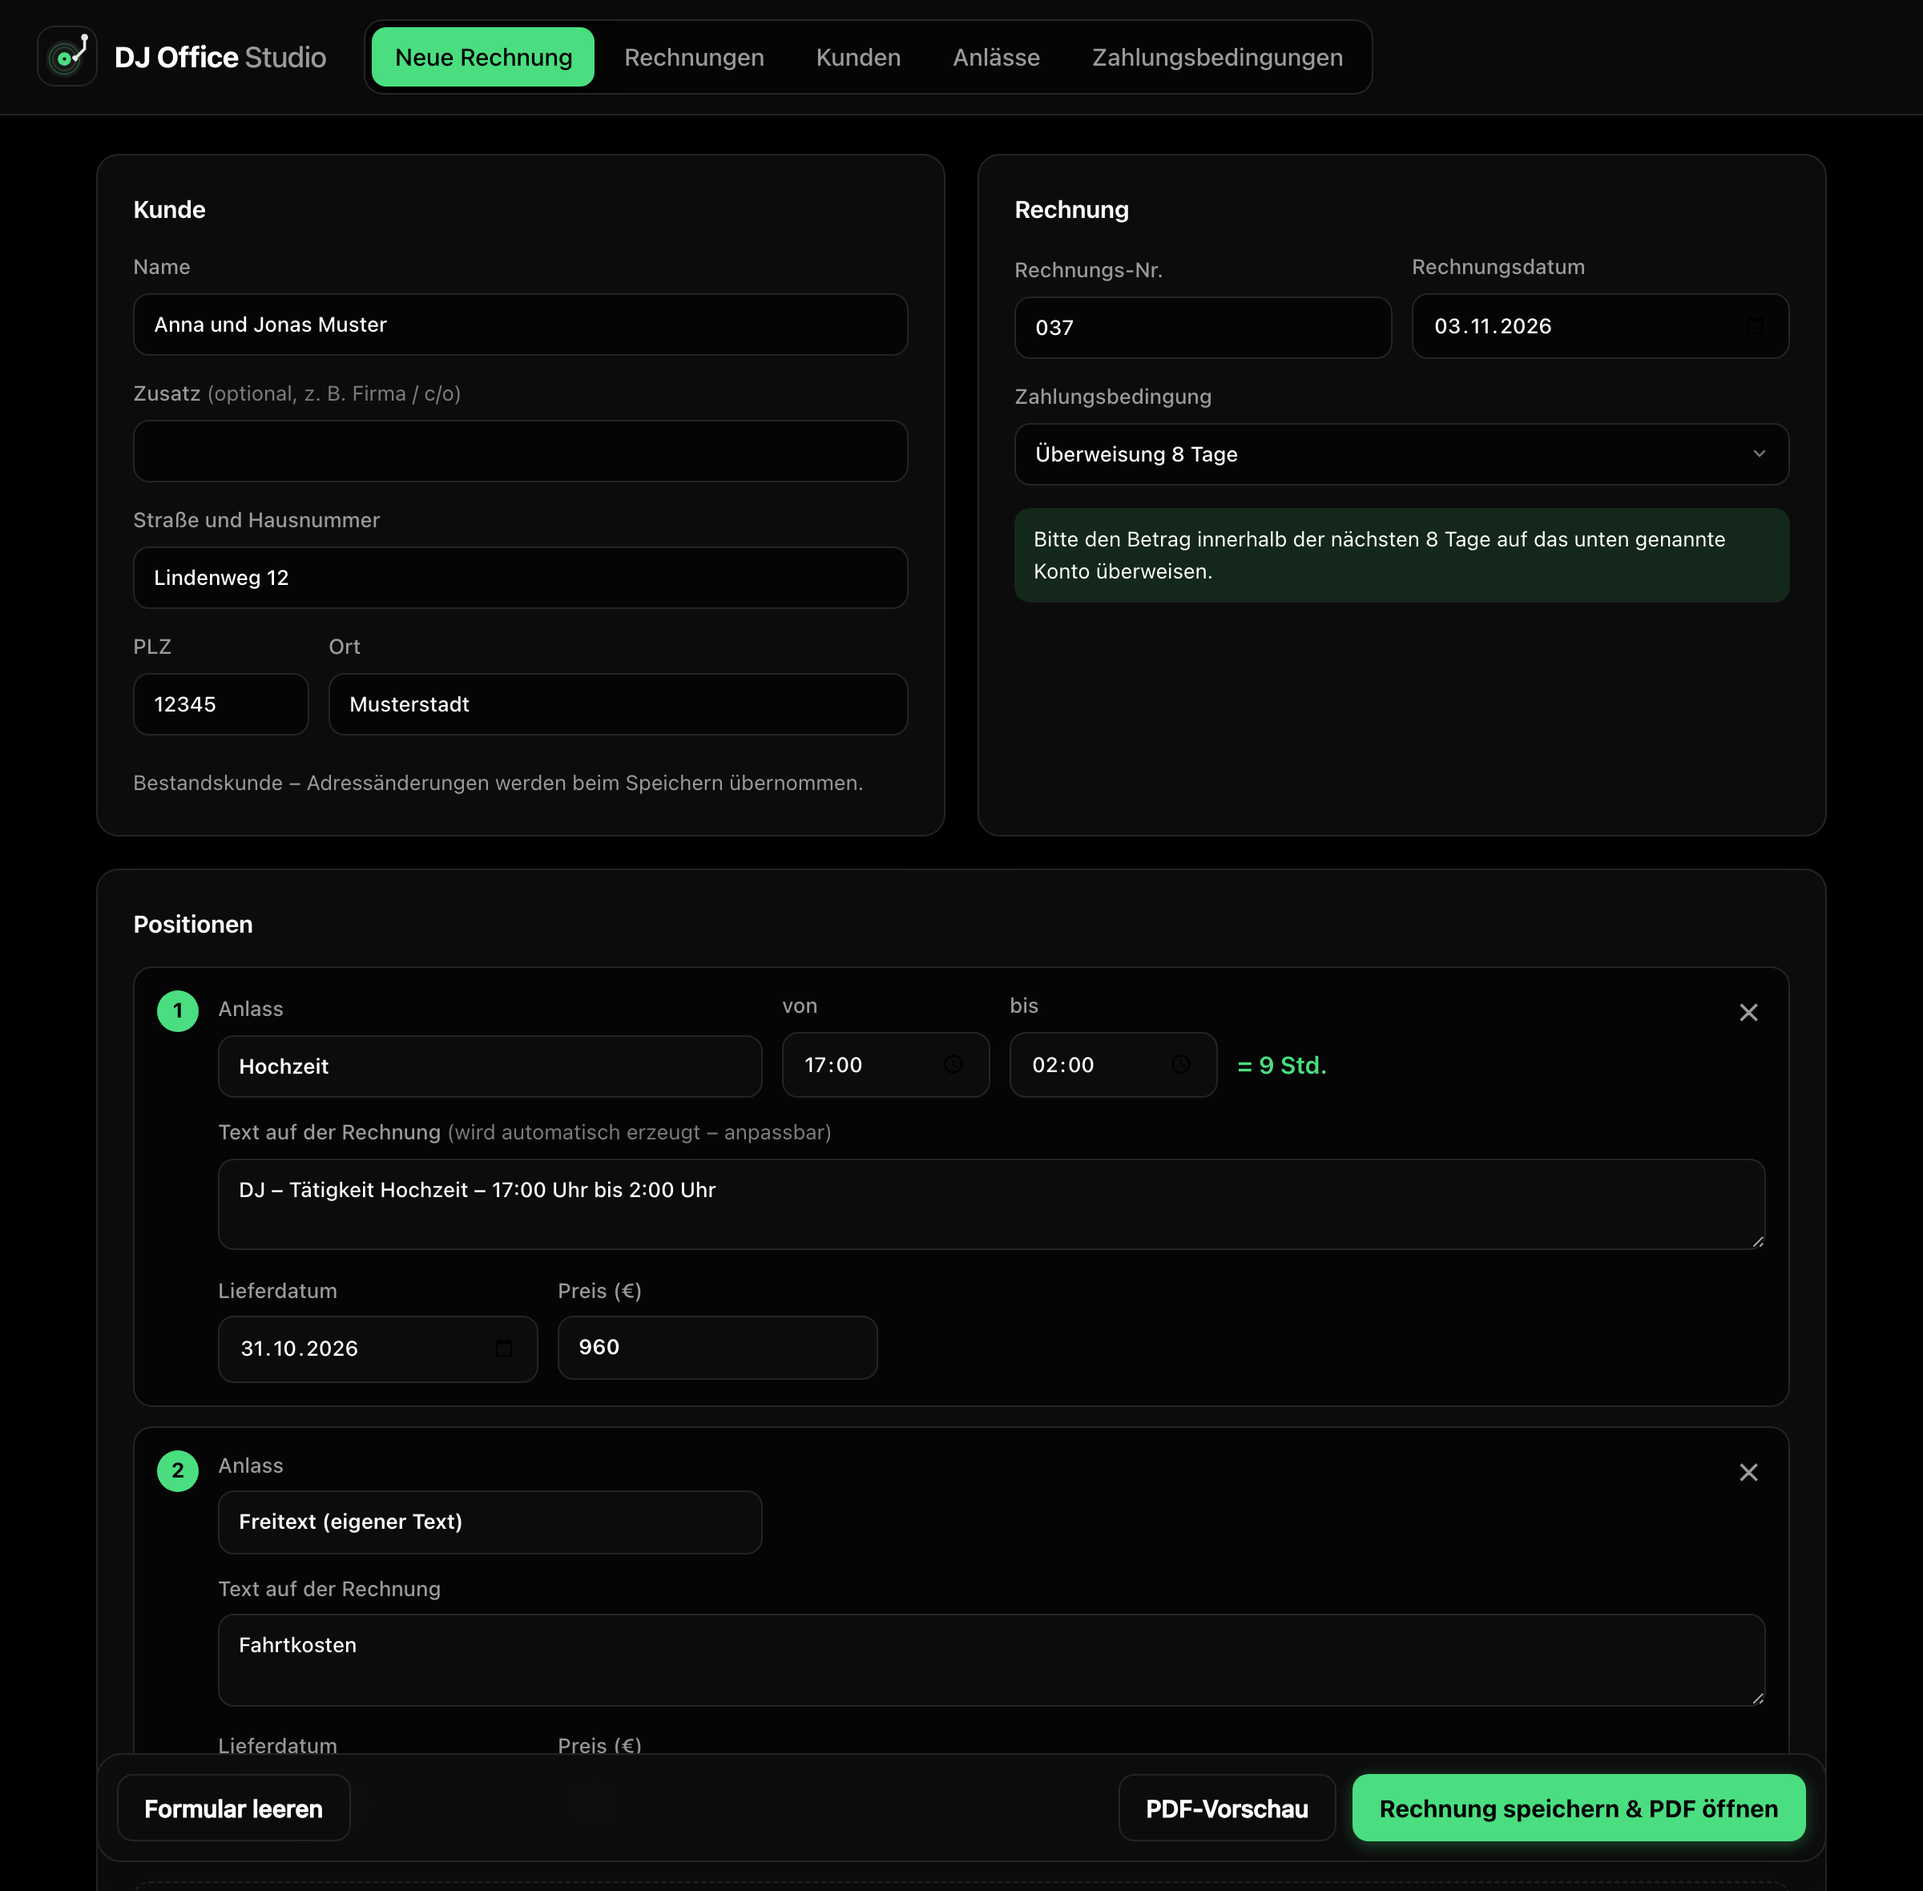
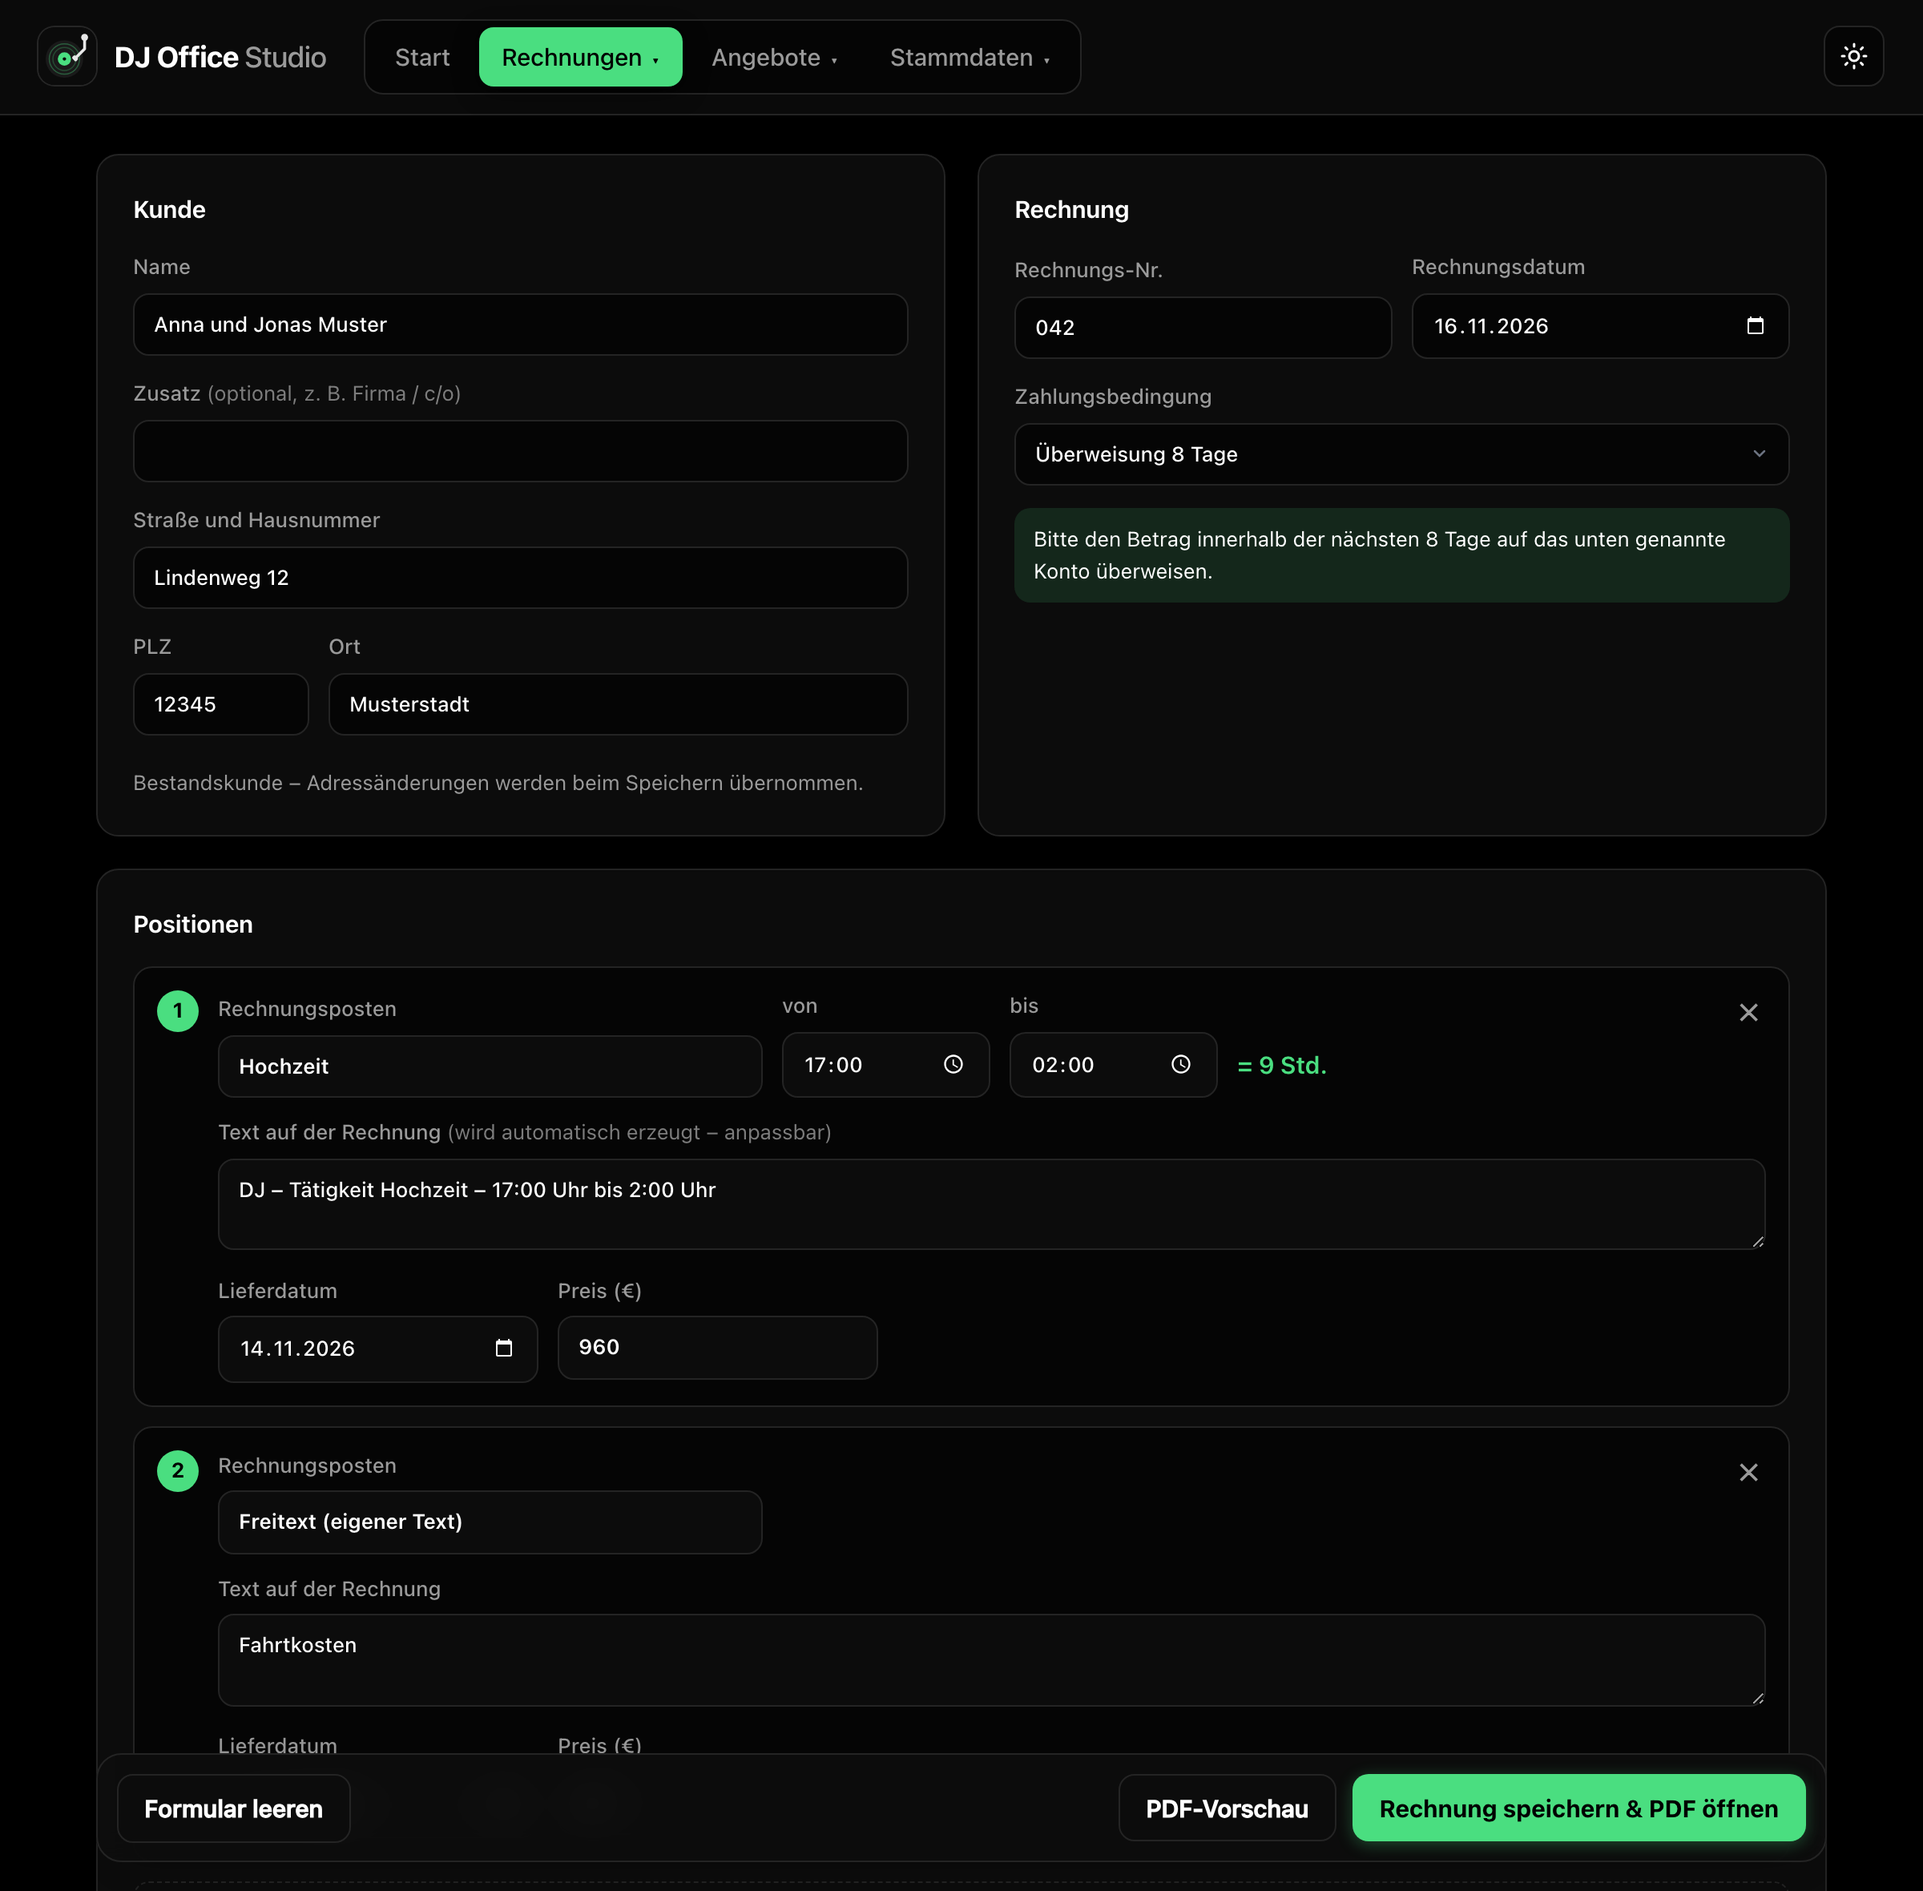
README: neue Screenshots und Bedienung inkl. Angebote; kurzer Rechnungslink in der Angebotsliste

diff --git a/rechnungen/app/static/app.js b/rechnungen/app/static/app.js
@@ -773,7 +773,7 @@ async function loadAngebote() {
 function gueltigBadge(a) {
   if (a.status === "angenommen") {
     const r = a.rechnung_id && state.rechnungen.find(x => x.id === a.rechnung_id);
-    return r ? `<a href="#" class="rlink" data-rechnung="${r.id}" title="Rechnung öffnen">→ ${esc(rechnungsName(r))}</a>`
+    return r ? `<a href="#" class="rlink nowrap" data-rechnung="${r.id}" title="${esc(rechnungsName(r))} öffnen">→ Rechnung ${esc(r.nummer)}</a>`
              : `<span class="frist gruen">angenommen</span>`;
   }
   if (a.status === "abgelehnt") return `<span class="frist neutral">abgelehnt</span>`;

diff --git a/rechnungen/app/static/style.css b/rechnungen/app/static/style.css
@@ -393,3 +393,4 @@ select.status-select.angenommen { border-color: var(--neon); }
 select.status-select.abgelehnt { color: var(--muted); }
 tr.angebot-zu td { opacity: .6; }
 tr.angebot-zu td.btns, tr.angebot-zu td.auswahl-spalte, tr.angebot-zu td:nth-child(7) { opacity: 1; }
+.nowrap { white-space: nowrap; }

diff --git a/README.md b/README.md
@@ -73,21 +73,25 @@ Ist `paperless_installiert` eingeschaltet, gibt es im Archiv bei markierten Rech
 Oben in der Kopfzeile gibt es auf jeder Seite das Menü: **Start**, **Rechnungen** (Neue Rechnung, Rechnungen), **Angebote** (Neues Angebot, Angebote) und **Stammdaten** (Kunden, Rechnungsposten, Zahlungsbedingungen).
 
 
-**Start:** Die Startseite öffnet sich beim Aufruf. Über die Kacheln geht es direkt zu jedem Bereich der App (inkl. Import alter Rechnungen); die Navigationsleiste erscheint erst auf den anderen Seiten. Ein Klick auf das Logo führt zurück zur Startseite. Darunter steht der Status der Rechnungen: was offen ist, wie lange noch Zeit ist, Umsatz und die letzten Rechnungen.
+**Start:** Die Startseite öffnet sich beim Aufruf. Über das Menü oder die Kacheln geht es direkt zu jedem Bereich der App (inkl. Import alter Rechnungen und Angebote). Ein Klick auf das Logo führt zurück zur Startseite. Darunter steht der aktuelle Stand: offene Rechnungen mit Restzeit, offene Angebote mit Restlaufzeit, Umsatz und die letzten Rechnungen – plus Hinweise bei überfälligen Rechnungen und bald ablaufenden Angeboten.
 
 ![Screenshot: Startseite](docs/startseite.png)
 
 **Neue Rechnung:** Kundennamen eintippen und einen Vorschlag übernehmen (oder neue Adresse eingeben). Pro Position einen Rechnungsposten wählen, von/bis eintragen, Lieferdatum und Preis ergänzen. Zahlungsbedingung wählen, dann **PDF-Vorschau** oder **Rechnung speichern & PDF öffnen**.
 
-**Rechnungsposten:** Im gleichen Tab neue Rechnungsposten (z. B. Hochzeit) anlegen. Ohne eigene Text-Vorlage wird `DJ – Tätigkeit <Bezeichnung> – {von} Uhr bis {bis} Uhr` verwendet; `{von}` und `{bis}` werden durch die Uhrzeiten ersetzt.
+**Angebote:** Über **Angebote → Neues Angebot** im selben Editor schreiben – zusätzlich mit **Gültig bis** und freien **Hinweisen** (z. B. Verlängerungsstunde, GEMA). In **Angebote → Angebote** stehen oben die offenen Angebote mit Restlaufzeit, darunter alle Angebote mit Status (offen / angenommen / abgelehnt). **→ Rechnung** macht aus einem Angebot eine neue Rechnung und markiert es als angenommen.
 
-**Alte Rechnungen importieren:** Im Tab **Rechnungen** auf **Alte Rechnungen importieren** klicken und PDFs hineinziehen. Danach auswählen, welche Empfänger, Rechnungsposten und Rechnungen übernommen werden. Erkannt werden PDFs mit echtem Text im Aufbau der Vorlage (Absenderzeile mit „|“, Adresse, „Rechnung Nr.“, Tabelle, „Gesamt“). Eingescannte Rechnungen werden nicht unterstützt.
+![Screenshot: Angebote](docs/angebote.png)
+
+**Rechnungsposten:** Unter **Stammdaten → Rechnungsposten** neue Rechnungsposten (z. B. Hochzeit) anlegen. Ohne eigene Text-Vorlage wird `DJ – Tätigkeit <Bezeichnung> – {von} Uhr bis {bis} Uhr` verwendet; `{von}` und `{bis}` werden durch die Uhrzeiten ersetzt.
+
+**Alte Rechnungen und Angebote importieren:** Unter **Rechnungen** (Archiv) auf **Alte Rechnungen importieren** bzw. unter **Angebote** auf **Alte Angebote importieren** klicken und PDFs hineinziehen – gemischt möglich. Danach auswählen, welche Empfänger, Rechnungsposten, Rechnungen und Angebote übernommen werden. Erkannt werden PDFs mit echtem Text im Aufbau der Vorlage (Absenderzeile mit „|“, Adresse, „Rechnung Nr.“ bzw. „Angebot“, Tabelle, „Gesamt“). Eingescannte Dokumente werden nicht unterstützt.
 
 ## Daten & Backup
 
 | Was | Wo |
 |---|---|
-| Kunden, Rechnungsposten, Zahlungsbedingungen, Rechnungen | SQLite-Datenbank `rechnungen.db` im App-Datenordner (`/data`) |
+| Kunden, Rechnungsposten, Zahlungsbedingungen, Rechnungen, Angebote | SQLite-Datenbank `rechnungen.db` im App-Datenordner (`/data`) |
 | PDF-Kopien | `pdf_ordner`, standardmäßig `/share/rechnungen` (z. B. per Samba erreichbar) |
 
 Beides ist in den normalen Home-Assistant-Backups enthalten.

diff --git a/rechnungen/CHANGELOG.md b/rechnungen/CHANGELOG.md
@@ -2,6 +2,12 @@
 
 Alle Änderungen an DJ Office Studio. Neueste Version oben.
 
+## 0.8.6 – 2026-11-16
+
+### Geändert
+- Angebotsliste: Bei angenommenen Angeboten steht der Link zur Rechnung jetzt kurz als „→ Rechnung 040“ (voller Name im Tooltip) – vorher konnte der lange Name die Tabelle über den Rand hinausschieben.
+- README: neue Screenshots (Rechnungseditor, Startseite mit offenen Angeboten, Angebotsansicht) und aktualisierte Bedienungshinweise.
+
 ## 0.8.5 – 2026-11-16
 
 ### Neu
